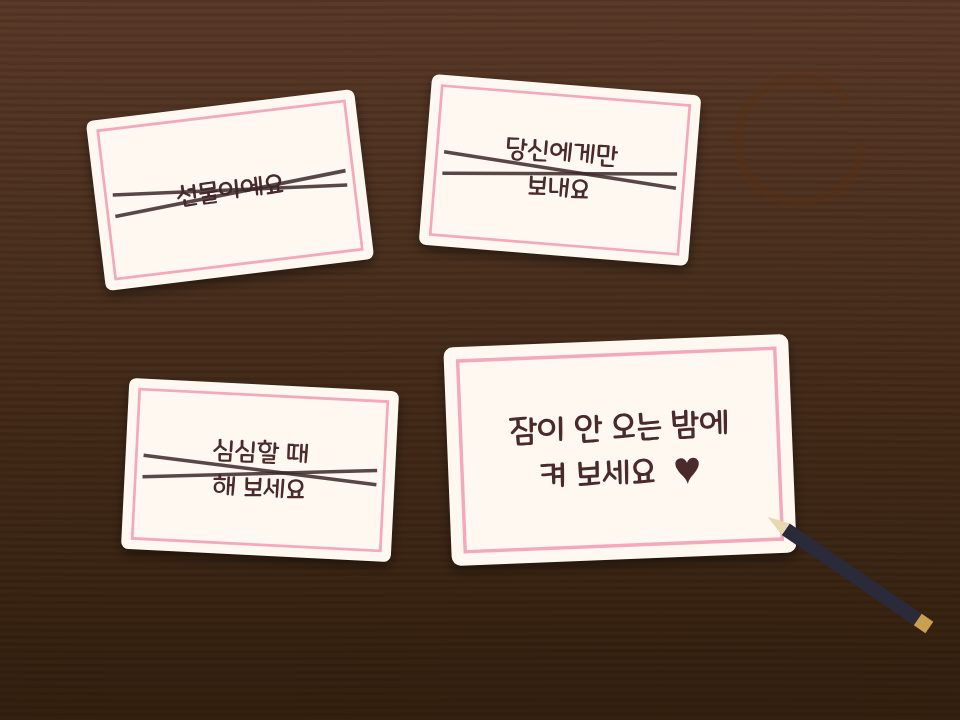
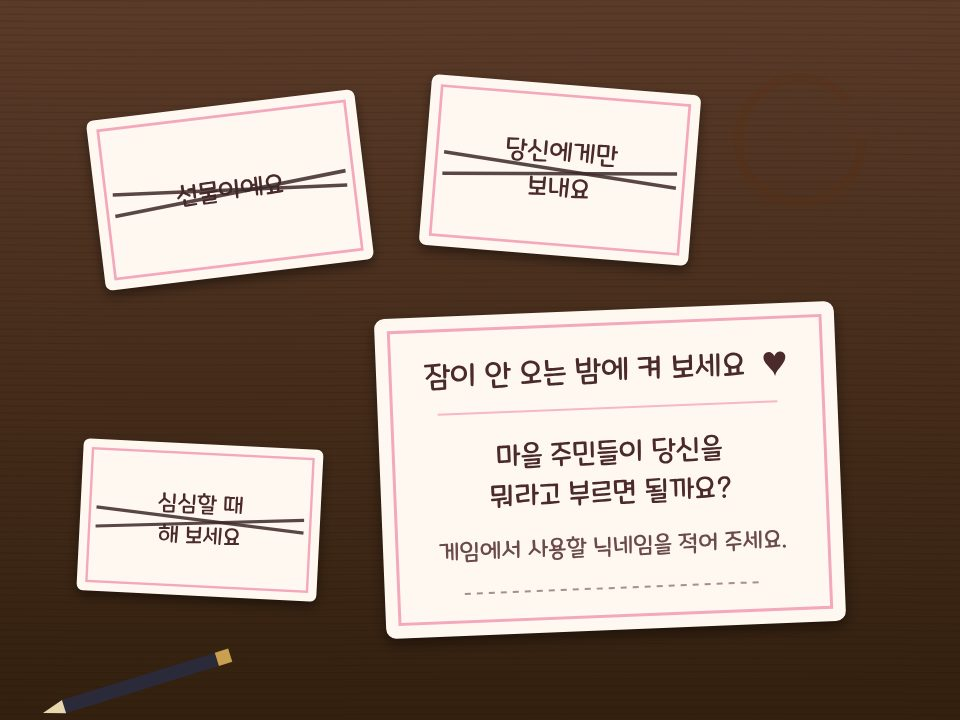
Parcel traces: no place names (chart shows one route, delivery log numbers the boxes); the box card also asks for a nickname
Claude-Session: https://claude.ai/code/session_01GyJEdcFjE828PDvtvLXbrE

Changed region(s): [[0.0625, 0.3972, 0.9688, 0.8861], [0.0312, 0.8861, 0.25, 1.0]]

diff --git a/docs/DARK_STORY.md b/docs/DARK_STORY.md
@@ -37,9 +37,9 @@
 | 2 | 보리 | 봉인 스티커 (24 칸 중 12 칸 떼어 냄) | 봉인 |
 | 3 | 올리 | 정품 인증 홀로그램 연습장 · 게임팩 밑그림 | 진짜처럼 위장 |
 | 4 | 몽실 | 분홍 천 부스러기 자루 "한 상자에 한 줌" | 완충재 |
-| 5 | 펭펭 | 해도: 섬에서 뭍 바닷가 열두 곳으로 · "새벽 · 불빛 끄고" | 내보낼 길 |
-| 6 | 단단 | 카드 초안 → "잠이 안 오는 밤에 켜 보세요" | 밤에 켜게 하기 |
-| 7 | 모모 | 배달 운행표: 섬 밖 열두 도시 "문 앞에 두고 옴" 12 / 12 | 배달 |
+| 5 | 펭펭 | 해도: 섬에서 뭍으로 가는 길 하나 · 상자 열두 개 · "새벽 · 불빛 끄고" (지역은 안 나와요) | 내보낼 길 |
+| 6 | 단단 | 카드 초안 → "잠이 안 오는 밤에 켜 보세요 ♥ / 마을 주민들이 당신을 뭐라고 부르면 될까요? / 게임에서 사용할 닉네임을 적어 주세요." | 밤에 켜게 하기 |
+| 7 | 모모 | 배달 운행표: 섬 밖 · 상자 1 ~ 12 "문 앞에 두고 옴" 12 / 12 (지역은 안 나와요) | 배달 |
 | 8 | 하나 | 접힌 분홍 빈 상자 × 12 (핑키 디저트 아일랜드) · 밀짚 | 상자 |
 | 9 | 도도 | 광석으로 깎은 게임팩 열두 개 (틀) | 게임팩 |
 | 10 | 밤이 | 향 주머니 열두 개 "상자마다 하나씩. 깊이 잠들 수 있게." | 잠들게 하기 |
